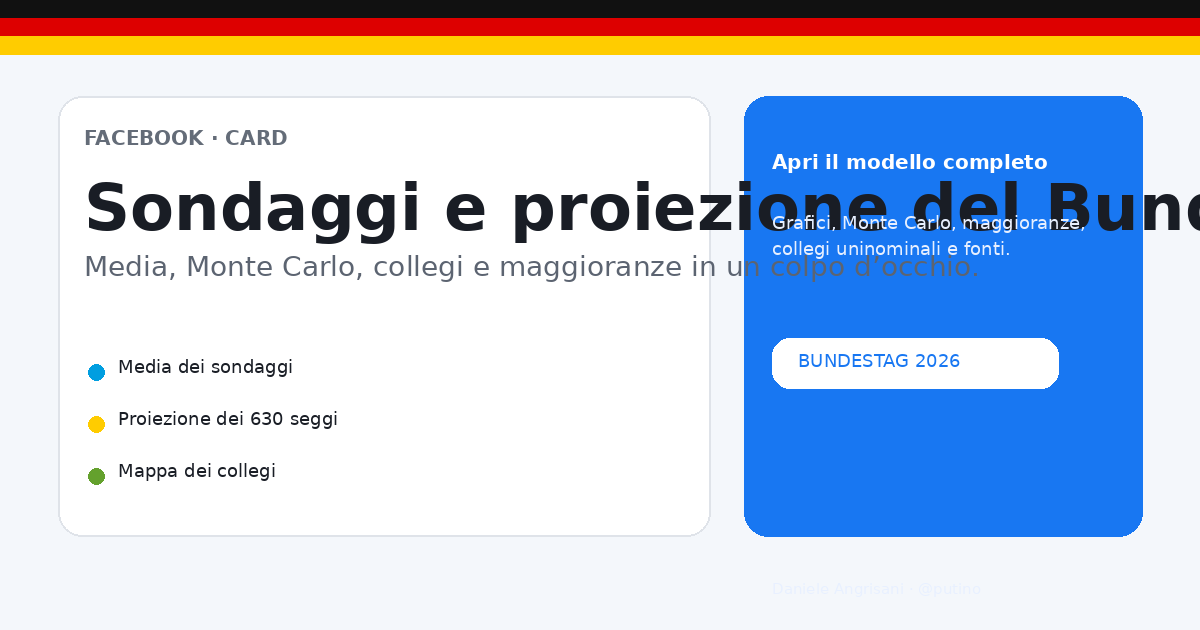
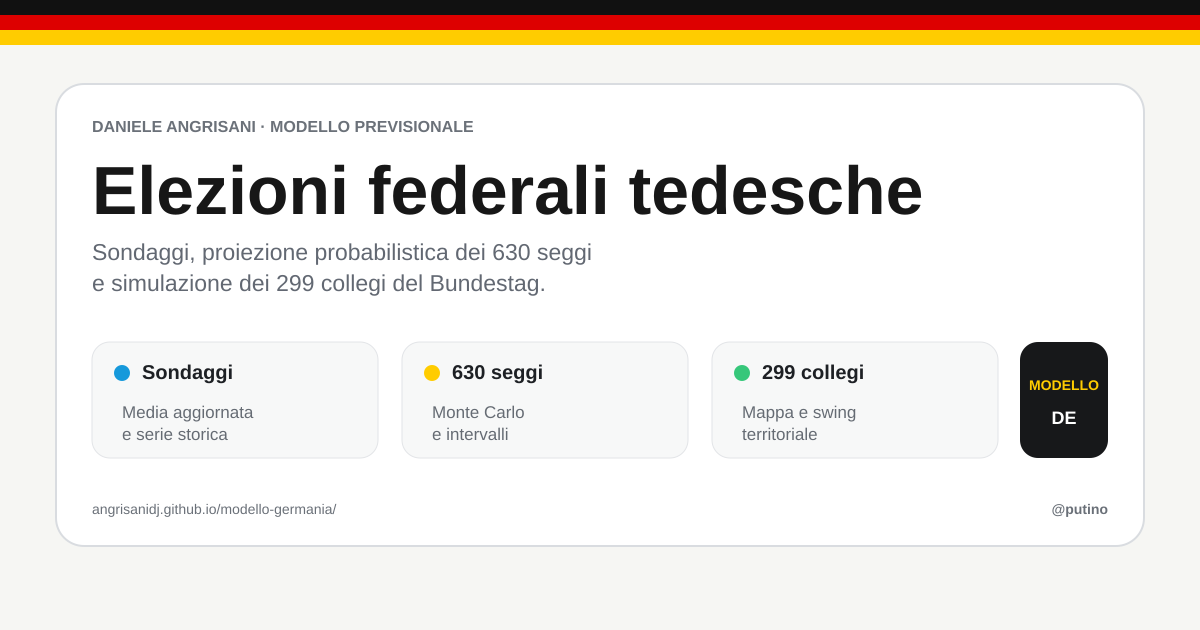
Add files via upload
Bug fix

diff --git a/index.html b/index.html
@@ -9,13 +9,13 @@
 <meta property="og:type" content="website" />
 <meta property="og:title" content="Elezioni federali tedesche — Sondaggi e proiezione del Bundestag" />
 <meta property="og:description" content="Media dei sondaggi, proiezione probabilistica dei seggi, simulazione dei collegi e costruttore di maggioranze." />
-<meta property="og:image" content="preview-bundestag-v21.png" />
+<meta property="og:image" content="preview-bundestag-v21.png?v=20260825d" />
 <meta property="og:image:width" content="1200" />
 <meta property="og:image:height" content="630" />
 <meta name="twitter:card" content="summary_large_image" />
 <meta name="twitter:title" content="Elezioni federali tedesche — Sondaggi e proiezione del Bundestag" />
 <meta name="twitter:description" content="Media dei sondaggi, proiezione probabilistica dei seggi, simulazione dei collegi e costruttore di maggioranze." />
-<meta name="twitter:image" content="preview-bundestag-v21.png" />
+<meta name="twitter:image" content="preview-bundestag-v21.png?v=20260825d" />
 <style>
 :root{
   --de-black:#111111; --de-red:#dd0000; --de-gold:#ffcc00;
@@ -1642,46 +1642,40 @@ function drawPreviewCard(){
   const start30=latest?new Date(latest.date):null; if(start30) start30.setDate(start30.getDate()-29);
   const recent30=latest?state.polls.filter(p=>p.date>=start30&&p.date<=latest.date):[];
   const instituteCount=new Set(recent30.map(p=>p.institute)).size;
-
-  const rr=(x,y,rw,rh,r,fill,stroke=null,lw=1)=>{ctx.beginPath();if(ctx.roundRect)ctx.roundRect(x,y,rw,rh,r);else{ctx.rect(x,y,rw,rh)};if(fill){ctx.fillStyle=fill;ctx.fill()}if(stroke){ctx.strokeStyle=stroke;ctx.lineWidth=lw;ctx.stroke()}};
+  const rr=(x,y,rw,rh,r,fill,stroke=null,lw=1)=>{ctx.beginPath();if(ctx.roundRect)ctx.roundRect(x,y,rw,rh,r);else ctx.rect(x,y,rw,rh);if(fill){ctx.fillStyle=fill;ctx.fill()}if(stroke){ctx.strokeStyle=stroke;ctx.lineWidth=lw;ctx.stroke()}};
   const text=(s,x,y,font,color='#171717',align='left')=>{ctx.font=font;ctx.fillStyle=color;ctx.textAlign=align;ctx.fillText(String(s),x,y)};
-  const wrap=(s,x,y,maxW,lineH,font,color,maxLines=3)=>{ctx.font=font;ctx.fillStyle=color;ctx.textAlign='left';const words=String(s).split(/\s+/);let line='',lines=[];for(const word of words){const test=line?line+' '+word:word;if(ctx.measureText(test).width>maxW&&line){lines.push(line);line=word}else line=test}if(line)lines.push(line);lines=lines.slice(0,maxLines);lines.forEach((ln,i)=>ctx.fillText(ln,x,y+i*lineH));return y+(lines.length-1)*lineH};
+  const wrap=(s,x,y,maxW,lineH,font,color,maxLines=2)=>{ctx.font=font;ctx.fillStyle=color;ctx.textAlign='left';const words=String(s).split(/\s+/);let line='',lines=[];for(const word of words){const t=line?line+' '+word:word;if(ctx.measureText(t).width>maxW&&line){lines.push(line);line=word}else line=t}if(line)lines.push(line);lines.slice(0,maxLines).forEach((ln,i)=>ctx.fillText(ln,x,y+i*lineH));};
 
   ctx.clearRect(0,0,w,h);ctx.fillStyle='#f6f6f3';ctx.fillRect(0,0,w,h);
-  ctx.fillStyle='#111';ctx.fillRect(0,0,w,16);ctx.fillStyle='#dd0000';ctx.fillRect(0,16,w,16);ctx.fillStyle='#ffcc00';ctx.fillRect(0,32,w,16);
+  ctx.fillStyle='#111';ctx.fillRect(0,0,w,14);ctx.fillStyle='#dd0000';ctx.fillRect(0,14,w,14);ctx.fillStyle='#ffcc00';ctx.fillRect(0,28,w,14);
 
-  const leftX=42,leftY=82,leftW=700,leftH=432,rightX=780,rightW=376;
-  rr(leftX,leftY,leftW,leftH,22,'#ffffff','#d9dce0',1.4);
-  text('DANIELE ANGRISANI · MODELLO PREVISIONALE',70,126,'700 18px system-ui, -apple-system, sans-serif','#656a72');
-  text('Elezioni',70,188,'900 58px system-ui, -apple-system, sans-serif');
-  text('federali',70,242,'900 58px system-ui, -apple-system, sans-serif');
-  text('tedesche',70,296,'900 58px system-ui, -apple-system, sans-serif');
-  wrap('Media dei sondaggi, proiezione probabilistica dei seggi, mappa dei collegi uninominali e costruttore di maggioranze.',70,338,620,25,'400 20px system-ui, -apple-system, sans-serif','#60666f',2);
+  const leftX=34,leftY=58,leftW=690,leftH=512,rightX=758,rightW=408;
+  rr(leftX,leftY,leftW,leftH,22,'#fff','#d9dce0',1.4);
+  text('DANIELE ANGRISANI · MODELLO PREVISIONALE',62,100,'700 15px system-ui, -apple-system, sans-serif','#656a72');
+  text('Elezioni',62,160,'900 56px system-ui, -apple-system, sans-serif');
+  text('federali',62,212,'900 56px system-ui, -apple-system, sans-serif');
+  text('tedesche',62,264,'900 56px system-ui, -apple-system, sans-serif');
+  wrap('Media dei sondaggi, proiezione probabilistica dei seggi, mappa dei collegi uninominali e costruttore di maggioranze.',62,304,620,24,'400 18px system-ui, -apple-system, sans-serif','#60666f',2);
 
-  const bars=ranked.slice(0,6), max=Math.max(30,...bars.map(p=>p.val)), barX=160, barW=300, labelX=70, valX=525, y0=398, step=38;
-  bars.forEach((p,i)=>{const y=y0+i*step;text(p.label,labelX,y,'700 16px system-ui, -apple-system, sans-serif','#24272b');rr(barX,y-13,barW,14,7,'#e7eaee');rr(barX,y-13,Math.max(4,barW*(p.val/max)),14,7,p.color);text(pct(p.val),valX,y,'700 16px system-ui, -apple-system, sans-serif','#25282c','right')});
-  const metaLine1=`${recent30.length} rilevazioni · ${instituteCount} istituti`;
-  const metaLine2=latest?`Ultima: ${fmtDate(latest.date)} (${latest.institute}${latest.client?' · '+latest.client:''})`:'';
-  text(metaLine1,70,leftY+leftH-36,'500 13px system-ui, -apple-system, sans-serif','#656a72');
-  if(metaLine2) text(metaLine2,70,leftY+leftH-16,'500 13px system-ui, -apple-system, sans-serif','#656a72');
+  const bars=ranked.slice(0,6),max=Math.max(30,...bars.map(p=>p.val)),labelX=62,barX=150,barW=300,valX=528,y0=370,step=31;
+  bars.forEach((p,i)=>{const y=y0+i*step;text(p.label,labelX,y,'700 15px system-ui, -apple-system, sans-serif','#24272b');rr(barX,y-12,barW,12,6,'#e7eaee');rr(barX,y-12,Math.max(4,barW*(p.val/max)),12,6,p.color);text(pct(p.val),valX,y,'700 15px system-ui, -apple-system, sans-serif','#25282c','right')});
+  ctx.strokeStyle='#eceef1';ctx.lineWidth=1;ctx.beginPath();ctx.moveTo(62,540);ctx.lineTo(666,540);ctx.stroke();
+  text(`${recent30.length} rilevazioni · ${instituteCount} istituti`,62,558,'500 12px system-ui, -apple-system, sans-serif','#656a72');
+  if(latest) text(`Ultima: ${fmtDate(latest.date)} (${latest.institute}${latest.client?' · '+latest.client:''})`,240,558,'500 12px system-ui, -apple-system, sans-serif','#656a72');
 
   rr(rightX,leftY,rightW,150,22,'#191a1c');
-  text('Quadro sintetico',808,126,'800 18px system-ui, -apple-system, sans-serif','#ffcc00');
-  const leaderFont=leader.label.length>9?'900 48px system-ui, -apple-system, sans-serif':'900 66px system-ui, -apple-system, sans-serif';
-  text(leader.label,808,192,leaderFont,'#ffffff');
-  text(`${pct(leader.val)} · primo partito nella media corrente`,808,220,'500 16px system-ui, -apple-system, sans-serif','#d9dde3');
+  text('Quadro sintetico',788,100,'800 18px system-ui, -apple-system, sans-serif','#ffcc00');
+  const leaderFont=leader.label.length>9?'900 46px system-ui, -apple-system, sans-serif':'900 66px system-ui, -apple-system, sans-serif';
+  text(leader.label,788,160,leaderFont,'#fff');
+  text(`${pct(leader.val)} · primo partito nella media corrente`,788,190,'500 14px system-ui, -apple-system, sans-serif','#d9dde3');
 
-  rr(rightX,250,rightW,264,22,'#ffffff','#d9dce0',1.4);
-  text('Modello con Monte Carlo calibrato',808,288,'500 16px system-ui, -apple-system, sans-serif','#656a72');
-  const info=[
-    ['Contenuto','Media, seggi e collegi'],
-    ['Aggiornamento','Automatico + manuale'],
-    ['Metodo','Sainte-Laguë + simulazioni']
-  ];
-  info.forEach((r,i)=>{const yy=330+i*74;ctx.fillStyle='#ffcc00';ctx.beginPath();ctx.arc(810,yy-4,7,0,Math.PI*2);ctx.fill();text(r[0],830,yy,'800 18px system-ui, -apple-system, sans-serif');text(r[1],830,yy+24,'400 15px system-ui, -apple-system, sans-serif','#626872');if(i<2){ctx.strokeStyle='#e5e7ea';ctx.lineWidth=1;ctx.beginPath();ctx.moveTo(808,yy+40);ctx.lineTo(1128,yy+40);ctx.stroke()}});
+  rr(rightX,226,rightW,344,22,'#fff','#d9dce0',1.4);
+  text('Modello con Monte Carlo calibrato',788,262,'500 16px system-ui, -apple-system, sans-serif','#656a72');
+  const info=[['Contenuto','Media, seggi e collegi'],['Aggiornamento','Automatico + manuale'],['Metodo','Sainte-Laguë + simulazioni']];
+  info.forEach((r,i)=>{const yy=310+i*82;ctx.fillStyle='#ffcc00';ctx.beginPath();ctx.arc(792,yy-4,7,0,Math.PI*2);ctx.fill();text(r[0],812,yy,'800 18px system-ui, -apple-system, sans-serif');text(r[1],812,yy+24,'400 15px system-ui, -apple-system, sans-serif','#626872');if(i<2){ctx.strokeStyle='#e5e7ea';ctx.beginPath();ctx.moveTo(788,yy+43);ctx.lineTo(1138,yy+43);ctx.stroke()}});
 
-  text('Fonte: Wahlen in Deutschland',70,546,'400 13px system-ui, -apple-system, sans-serif','#666b73');
-  text('@putino',1130,546,'600 13px system-ui, -apple-system, sans-serif','#666b73','right');
+  text('Fonte: Wahlen in Deutschland',34,612,'400 12px system-ui, -apple-system, sans-serif','#666b73');
+  text('@putino',1160,612,'600 12px system-ui, -apple-system, sans-serif','#666b73','right');
   return canvas;
 }
 function downloadPreviewPng(){ const canvas=drawPreviewCard(); if(!canvas) return; canvas.toBlob(blob=>{ if(!blob) return; const a=document.createElement('a'); a.href=URL.createObjectURL(blob); a.download=snapshotFilename('png'); document.body.appendChild(a); a.click(); setTimeout(()=>{URL.revokeObjectURL(a.href); a.remove()},120); },'image/png'); }
@@ -1724,14 +1718,17 @@ function socialShareTarget(kind){
   return u.href;
 }
 
-function openShare(kind){ const s=pageShareData(), shareUrl=socialShareTarget(kind), u=encodeURIComponent(shareUrl), txt=encodeURIComponent(s.text+' '+shareUrl); let url='';
-  if(kind==='x') url=`https://x.com/intent/post?text=${txt}`;
-  else if(kind==='threads') url=`https://www.threads.net/intent/post?text=${txt}`;
+function openShare(kind){
+  const s=pageShareData(),shareUrl=socialShareTarget(kind),u=encodeURIComponent(shareUrl);
+  const shortText='Elezioni federali tedesche: sondaggi, proiezione dei seggi e collegi.';
+  let url='';
+  if(kind==='x') url=`https://x.com/intent/post?text=${encodeURIComponent(shortText+' '+shareUrl)}`;
+  else if(kind==='threads') url=`https://www.threads.net/intent/post?text=${encodeURIComponent(shortText+' '+shareUrl)}`;
   else if(kind==='facebook') url=`https://www.facebook.com/sharer/sharer.php?u=${u}`;
   else if(kind==='linkedin') url=`https://www.linkedin.com/sharing/share-offsite/?url=${u}`;
-  else if(kind==='telegram') url=`https://t.me/share/url?url=${u}&text=${encodeURIComponent(s.title)}`;
-  else if(kind==='whatsapp') url=`https://api.whatsapp.com/send?text=${txt}`;
-  else if(kind==='copy'){ navigator.clipboard?.writeText(location.href); setStatus('ok','Link copiato negli appunti'); return; }
+  else if(kind==='telegram') url=`https://t.me/share/url?url=${u}`;
+  else if(kind==='whatsapp') url=`https://api.whatsapp.com/send?text=${u}`;
+  else if(kind==='copy'){navigator.clipboard?.writeText(location.href);setStatus('ok','Link copiato negli appunti');return;}
   if(url) window.open(url,'_blank','noopener');
 }
 function aiPrompt(){

diff --git a/share-x.html b/share-x.html
@@ -2,23 +2,23 @@
 <html lang="it"><head>
 <meta charset="utf-8">
 <meta name="viewport" content="width=device-width,initial-scale=1">
-<title>Sondaggi e proiezione del Bundestag</title>
-<meta name="description" content="Card editoriale per X: anteprima della dashboard sulle elezioni tedesche con media dei sondaggi e proiezione del Bundestag.">
+<title>Elezioni federali tedesche</title>
+<meta name="description" content="Sondaggi, proiezione probabilistica dei 630 seggi e mappa dei 299 collegi.">
 <meta property="og:type" content="website">
-<meta property="og:title" content="Sondaggi e proiezione del Bundestag">
-<meta property="og:description" content="Card editoriale per X: anteprima della dashboard sulle elezioni tedesche con media dei sondaggi e proiezione del Bundestag.">
-<meta property="og:image" content="https://angrisanidj.github.io/modello-germania/card_x.png?v=20260825">
+<meta property="og:title" content="Elezioni federali tedesche">
+<meta property="og:description" content="Sondaggi, proiezione probabilistica dei 630 seggi e mappa dei 299 collegi.">
+<meta property="og:image" content="https://angrisanidj.github.io/modello-germania/card_x.png?v=20260825d">
 <meta property="og:image:width" content="1200">
 <meta property="og:image:height" content="630">
-<meta property="og:url" content="https://angrisanidj.github.io/modello-germania/share-x.html?v=20260825">
+<meta property="og:url" content="https://angrisanidj.github.io/modello-germania/share-x.html?v=20260825d">
 <meta property="og:site_name" content="Modello Bundestag">
 <meta name="twitter:card" content="summary_large_image">
-<meta name="twitter:title" content="Sondaggi e proiezione del Bundestag">
-<meta name="twitter:description" content="Card editoriale per X: anteprima della dashboard sulle elezioni tedesche con media dei sondaggi e proiezione del Bundestag.">
-<meta name="twitter:image" content="https://angrisanidj.github.io/modello-germania/card_x.png?v=20260825">
+<meta name="twitter:title" content="Elezioni federali tedesche">
+<meta name="twitter:description" content="Sondaggi, proiezione probabilistica dei 630 seggi e mappa dei 299 collegi.">
+<meta name="twitter:image" content="https://angrisanidj.github.io/modello-germania/card_x.png?v=20260825d">
 <link rel="canonical" href="https://angrisanidj.github.io/modello-germania/">
-<style>body{font-family:system-ui,-apple-system,Segoe UI,Roboto,sans-serif;background:#f7f7f5;color:#1b1d20;margin:0;display:grid;place-items:center;min-height:100vh;padding:24px}.box{max-width:720px;background:#fff;border:1px solid #e4e6e9;border-radius:18px;padding:28px;box-shadow:0 12px 28px rgba(0,0,0,.06)}a{color:#111;font-weight:800}</style>
+<style>body{font-family:system-ui,-apple-system,Segoe UI,Roboto,sans-serif;background:#f7f7f5;color:#1b1d20;margin:0;display:grid;place-items:center;min-height:100vh;padding:24px}.box{max-width:720px;background:#fff;border:1px solid #e4e6e9;border-radius:18px;padding:28px;box-shadow:0 12px 28px rgba(0,0,0,.06)}h1{margin-top:0}a{color:#111;font-weight:800}</style>
 </head><body>
-<div class="box"><h1>Sondaggi e proiezione del Bundestag</h1><p>Card editoriale per X: anteprima della dashboard sulle elezioni tedesche con media dei sondaggi e proiezione del Bundestag.</p><p><a href="./">Apri la dashboard completa →</a></p></div>
+<div class="box"><h1>Elezioni federali tedesche</h1><p>Sondaggi, proiezione probabilistica dei 630 seggi e mappa dei 299 collegi.</p><p><a href="./">Apri il modello completo →</a></p></div>
 <script>setTimeout(function(){ location.replace('./'); },350);</script>
 </body></html>

diff --git a/share-linkedin.html b/share-linkedin.html
@@ -2,23 +2,23 @@
 <html lang="it"><head>
 <meta charset="utf-8">
 <meta name="viewport" content="width=device-width,initial-scale=1">
-<title>Sondaggi e proiezione del Bundestag</title>
-<meta name="description" content="Card editoriale per LinkedIn: dashboard dati sulle elezioni tedesche, con metodo e proiezione dei seggi.">
+<title>Elezioni federali tedesche</title>
+<meta name="description" content="Sondaggi, proiezione probabilistica dei 630 seggi e mappa dei 299 collegi.">
 <meta property="og:type" content="website">
-<meta property="og:title" content="Sondaggi e proiezione del Bundestag">
-<meta property="og:description" content="Card editoriale per LinkedIn: dashboard dati sulle elezioni tedesche, con metodo e proiezione dei seggi.">
-<meta property="og:image" content="https://angrisanidj.github.io/modello-germania/card_linkedin.png?v=20260825">
+<meta property="og:title" content="Elezioni federali tedesche">
+<meta property="og:description" content="Sondaggi, proiezione probabilistica dei 630 seggi e mappa dei 299 collegi.">
+<meta property="og:image" content="https://angrisanidj.github.io/modello-germania/card_linkedin.png?v=20260825d">
 <meta property="og:image:width" content="1200">
 <meta property="og:image:height" content="630">
-<meta property="og:url" content="https://angrisanidj.github.io/modello-germania/share-linkedin.html?v=20260825">
+<meta property="og:url" content="https://angrisanidj.github.io/modello-germania/share-linkedin.html?v=20260825d">
 <meta property="og:site_name" content="Modello Bundestag">
 <meta name="twitter:card" content="summary_large_image">
-<meta name="twitter:title" content="Sondaggi e proiezione del Bundestag">
-<meta name="twitter:description" content="Card editoriale per LinkedIn: dashboard dati sulle elezioni tedesche, con metodo e proiezione dei seggi.">
-<meta name="twitter:image" content="https://angrisanidj.github.io/modello-germania/card_linkedin.png?v=20260825">
+<meta name="twitter:title" content="Elezioni federali tedesche">
+<meta name="twitter:description" content="Sondaggi, proiezione probabilistica dei 630 seggi e mappa dei 299 collegi.">
+<meta name="twitter:image" content="https://angrisanidj.github.io/modello-germania/card_linkedin.png?v=20260825d">
 <link rel="canonical" href="https://angrisanidj.github.io/modello-germania/">
-<style>body{font-family:system-ui,-apple-system,Segoe UI,Roboto,sans-serif;background:#f7f7f5;color:#1b1d20;margin:0;display:grid;place-items:center;min-height:100vh;padding:24px}.box{max-width:720px;background:#fff;border:1px solid #e4e6e9;border-radius:18px;padding:28px;box-shadow:0 12px 28px rgba(0,0,0,.06)}a{color:#111;font-weight:800}</style>
+<style>body{font-family:system-ui,-apple-system,Segoe UI,Roboto,sans-serif;background:#f7f7f5;color:#1b1d20;margin:0;display:grid;place-items:center;min-height:100vh;padding:24px}.box{max-width:720px;background:#fff;border:1px solid #e4e6e9;border-radius:18px;padding:28px;box-shadow:0 12px 28px rgba(0,0,0,.06)}h1{margin-top:0}a{color:#111;font-weight:800}</style>
 </head><body>
-<div class="box"><h1>Sondaggi e proiezione del Bundestag</h1><p>Card editoriale per LinkedIn: dashboard dati sulle elezioni tedesche, con metodo e proiezione dei seggi.</p><p><a href="./">Apri la dashboard completa →</a></p></div>
+<div class="box"><h1>Elezioni federali tedesche</h1><p>Sondaggi, proiezione probabilistica dei 630 seggi e mappa dei 299 collegi.</p><p><a href="./">Apri il modello completo →</a></p></div>
 <script>setTimeout(function(){ location.replace('./'); },350);</script>
 </body></html>

diff --git a/share-threads.html b/share-threads.html
@@ -2,23 +2,23 @@
 <html lang="it"><head>
 <meta charset="utf-8">
 <meta name="viewport" content="width=device-width,initial-scale=1">
-<title>Sondaggi e proiezione del Bundestag</title>
-<meta name="description" content="Card editoriale per Threads: dashboard sulle elezioni federali tedesche con dati, modello e collegi.">
+<title>Elezioni federali tedesche</title>
+<meta name="description" content="Sondaggi, proiezione probabilistica dei 630 seggi e mappa dei 299 collegi.">
 <meta property="og:type" content="website">
-<meta property="og:title" content="Sondaggi e proiezione del Bundestag">
-<meta property="og:description" content="Card editoriale per Threads: dashboard sulle elezioni federali tedesche con dati, modello e collegi.">
-<meta property="og:image" content="https://angrisanidj.github.io/modello-germania/card_threads.png?v=20260825">
+<meta property="og:title" content="Elezioni federali tedesche">
+<meta property="og:description" content="Sondaggi, proiezione probabilistica dei 630 seggi e mappa dei 299 collegi.">
+<meta property="og:image" content="https://angrisanidj.github.io/modello-germania/card_threads.png?v=20260825d">
 <meta property="og:image:width" content="1200">
 <meta property="og:image:height" content="630">
-<meta property="og:url" content="https://angrisanidj.github.io/modello-germania/share-threads.html?v=20260825">
+<meta property="og:url" content="https://angrisanidj.github.io/modello-germania/share-threads.html?v=20260825d">
 <meta property="og:site_name" content="Modello Bundestag">
 <meta name="twitter:card" content="summary_large_image">
-<meta name="twitter:title" content="Sondaggi e proiezione del Bundestag">
-<meta name="twitter:description" content="Card editoriale per Threads: dashboard sulle elezioni federali tedesche con dati, modello e collegi.">
-<meta name="twitter:image" content="https://angrisanidj.github.io/modello-germania/card_threads.png?v=20260825">
+<meta name="twitter:title" content="Elezioni federali tedesche">
+<meta name="twitter:description" content="Sondaggi, proiezione probabilistica dei 630 seggi e mappa dei 299 collegi.">
+<meta name="twitter:image" content="https://angrisanidj.github.io/modello-germania/card_threads.png?v=20260825d">
 <link rel="canonical" href="https://angrisanidj.github.io/modello-germania/">
-<style>body{font-family:system-ui,-apple-system,Segoe UI,Roboto,sans-serif;background:#f7f7f5;color:#1b1d20;margin:0;display:grid;place-items:center;min-height:100vh;padding:24px}.box{max-width:720px;background:#fff;border:1px solid #e4e6e9;border-radius:18px;padding:28px;box-shadow:0 12px 28px rgba(0,0,0,.06)}a{color:#111;font-weight:800}</style>
+<style>body{font-family:system-ui,-apple-system,Segoe UI,Roboto,sans-serif;background:#f7f7f5;color:#1b1d20;margin:0;display:grid;place-items:center;min-height:100vh;padding:24px}.box{max-width:720px;background:#fff;border:1px solid #e4e6e9;border-radius:18px;padding:28px;box-shadow:0 12px 28px rgba(0,0,0,.06)}h1{margin-top:0}a{color:#111;font-weight:800}</style>
 </head><body>
-<div class="box"><h1>Sondaggi e proiezione del Bundestag</h1><p>Card editoriale per Threads: dashboard sulle elezioni federali tedesche con dati, modello e collegi.</p><p><a href="./">Apri la dashboard completa →</a></p></div>
+<div class="box"><h1>Elezioni federali tedesche</h1><p>Sondaggi, proiezione probabilistica dei 630 seggi e mappa dei 299 collegi.</p><p><a href="./">Apri il modello completo →</a></p></div>
 <script>setTimeout(function(){ location.replace('./'); },350);</script>
 </body></html>

diff --git a/share-whatsapp.html b/share-whatsapp.html
@@ -2,23 +2,23 @@
 <html lang="it"><head>
 <meta charset="utf-8">
 <meta name="viewport" content="width=device-width,initial-scale=1">
-<title>Sondaggi e proiezione del Bundestag</title>
-<meta name="description" content="Card editoriale per WhatsApp: anteprima grafica del modello con link alla dashboard completa.">
+<title>Elezioni federali tedesche</title>
+<meta name="description" content="Sondaggi, proiezione probabilistica dei 630 seggi e mappa dei 299 collegi.">
 <meta property="og:type" content="website">
-<meta property="og:title" content="Sondaggi e proiezione del Bundestag">
-<meta property="og:description" content="Card editoriale per WhatsApp: anteprima grafica del modello con link alla dashboard completa.">
-<meta property="og:image" content="https://angrisanidj.github.io/modello-germania/card_whatsapp.png?v=20260825">
+<meta property="og:title" content="Elezioni federali tedesche">
+<meta property="og:description" content="Sondaggi, proiezione probabilistica dei 630 seggi e mappa dei 299 collegi.">
+<meta property="og:image" content="https://angrisanidj.github.io/modello-germania/card_whatsapp.png?v=20260825d">
 <meta property="og:image:width" content="1200">
 <meta property="og:image:height" content="630">
-<meta property="og:url" content="https://angrisanidj.github.io/modello-germania/share-whatsapp.html?v=20260825">
+<meta property="og:url" content="https://angrisanidj.github.io/modello-germania/share-whatsapp.html?v=20260825d">
 <meta property="og:site_name" content="Modello Bundestag">
 <meta name="twitter:card" content="summary_large_image">
-<meta name="twitter:title" content="Sondaggi e proiezione del Bundestag">
-<meta name="twitter:description" content="Card editoriale per WhatsApp: anteprima grafica del modello con link alla dashboard completa.">
-<meta name="twitter:image" content="https://angrisanidj.github.io/modello-germania/card_whatsapp.png?v=20260825">
+<meta name="twitter:title" content="Elezioni federali tedesche">
+<meta name="twitter:description" content="Sondaggi, proiezione probabilistica dei 630 seggi e mappa dei 299 collegi.">
+<meta name="twitter:image" content="https://angrisanidj.github.io/modello-germania/card_whatsapp.png?v=20260825d">
 <link rel="canonical" href="https://angrisanidj.github.io/modello-germania/">
-<style>body{font-family:system-ui,-apple-system,Segoe UI,Roboto,sans-serif;background:#f7f7f5;color:#1b1d20;margin:0;display:grid;place-items:center;min-height:100vh;padding:24px}.box{max-width:720px;background:#fff;border:1px solid #e4e6e9;border-radius:18px;padding:28px;box-shadow:0 12px 28px rgba(0,0,0,.06)}a{color:#111;font-weight:800}</style>
+<style>body{font-family:system-ui,-apple-system,Segoe UI,Roboto,sans-serif;background:#f7f7f5;color:#1b1d20;margin:0;display:grid;place-items:center;min-height:100vh;padding:24px}.box{max-width:720px;background:#fff;border:1px solid #e4e6e9;border-radius:18px;padding:28px;box-shadow:0 12px 28px rgba(0,0,0,.06)}h1{margin-top:0}a{color:#111;font-weight:800}</style>
 </head><body>
-<div class="box"><h1>Sondaggi e proiezione del Bundestag</h1><p>Card editoriale per WhatsApp: anteprima grafica del modello con link alla dashboard completa.</p><p><a href="./">Apri la dashboard completa →</a></p></div>
+<div class="box"><h1>Elezioni federali tedesche</h1><p>Sondaggi, proiezione probabilistica dei 630 seggi e mappa dei 299 collegi.</p><p><a href="./">Apri il modello completo →</a></p></div>
 <script>setTimeout(function(){ location.replace('./'); },350);</script>
 </body></html>

diff --git a/share-telegram.html b/share-telegram.html
@@ -2,23 +2,23 @@
 <html lang="it"><head>
 <meta charset="utf-8">
 <meta name="viewport" content="width=device-width,initial-scale=1">
-<title>Sondaggi e proiezione del Bundestag</title>
-<meta name="description" content="Card editoriale per Telegram: sintesi grafica del modello sulle elezioni tedesche.">
+<title>Elezioni federali tedesche</title>
+<meta name="description" content="Sondaggi, proiezione probabilistica dei 630 seggi e mappa dei 299 collegi.">
 <meta property="og:type" content="website">
-<meta property="og:title" content="Sondaggi e proiezione del Bundestag">
-<meta property="og:description" content="Card editoriale per Telegram: sintesi grafica del modello sulle elezioni tedesche.">
-<meta property="og:image" content="https://angrisanidj.github.io/modello-germania/card_telegram.png?v=20260825">
+<meta property="og:title" content="Elezioni federali tedesche">
+<meta property="og:description" content="Sondaggi, proiezione probabilistica dei 630 seggi e mappa dei 299 collegi.">
+<meta property="og:image" content="https://angrisanidj.github.io/modello-germania/card_telegram.png?v=20260825d">
 <meta property="og:image:width" content="1200">
 <meta property="og:image:height" content="630">
-<meta property="og:url" content="https://angrisanidj.github.io/modello-germania/share-telegram.html?v=20260825">
+<meta property="og:url" content="https://angrisanidj.github.io/modello-germania/share-telegram.html?v=20260825d">
 <meta property="og:site_name" content="Modello Bundestag">
 <meta name="twitter:card" content="summary_large_image">
-<meta name="twitter:title" content="Sondaggi e proiezione del Bundestag">
-<meta name="twitter:description" content="Card editoriale per Telegram: sintesi grafica del modello sulle elezioni tedesche.">
-<meta name="twitter:image" content="https://angrisanidj.github.io/modello-germania/card_telegram.png?v=20260825">
+<meta name="twitter:title" content="Elezioni federali tedesche">
+<meta name="twitter:description" content="Sondaggi, proiezione probabilistica dei 630 seggi e mappa dei 299 collegi.">
+<meta name="twitter:image" content="https://angrisanidj.github.io/modello-germania/card_telegram.png?v=20260825d">
 <link rel="canonical" href="https://angrisanidj.github.io/modello-germania/">
-<style>body{font-family:system-ui,-apple-system,Segoe UI,Roboto,sans-serif;background:#f7f7f5;color:#1b1d20;margin:0;display:grid;place-items:center;min-height:100vh;padding:24px}.box{max-width:720px;background:#fff;border:1px solid #e4e6e9;border-radius:18px;padding:28px;box-shadow:0 12px 28px rgba(0,0,0,.06)}a{color:#111;font-weight:800}</style>
+<style>body{font-family:system-ui,-apple-system,Segoe UI,Roboto,sans-serif;background:#f7f7f5;color:#1b1d20;margin:0;display:grid;place-items:center;min-height:100vh;padding:24px}.box{max-width:720px;background:#fff;border:1px solid #e4e6e9;border-radius:18px;padding:28px;box-shadow:0 12px 28px rgba(0,0,0,.06)}h1{margin-top:0}a{color:#111;font-weight:800}</style>
 </head><body>
-<div class="box"><h1>Sondaggi e proiezione del Bundestag</h1><p>Card editoriale per Telegram: sintesi grafica del modello sulle elezioni tedesche.</p><p><a href="./">Apri la dashboard completa →</a></p></div>
+<div class="box"><h1>Elezioni federali tedesche</h1><p>Sondaggi, proiezione probabilistica dei 630 seggi e mappa dei 299 collegi.</p><p><a href="./">Apri il modello completo →</a></p></div>
 <script>setTimeout(function(){ location.replace('./'); },350);</script>
 </body></html>

diff --git a/share-facebook.html b/share-facebook.html
@@ -2,23 +2,23 @@
 <html lang="it"><head>
 <meta charset="utf-8">
 <meta name="viewport" content="width=device-width,initial-scale=1">
-<title>Sondaggi e proiezione del Bundestag</title>
-<meta name="description" content="Card editoriale per Facebook: sondaggi, Monte Carlo e costruttore di maggioranze.">
+<title>Elezioni federali tedesche</title>
+<meta name="description" content="Sondaggi, proiezione probabilistica dei 630 seggi e mappa dei 299 collegi.">
 <meta property="og:type" content="website">
-<meta property="og:title" content="Sondaggi e proiezione del Bundestag">
-<meta property="og:description" content="Card editoriale per Facebook: sondaggi, Monte Carlo e costruttore di maggioranze.">
-<meta property="og:image" content="https://angrisanidj.github.io/modello-germania/card_facebook.png?v=20260825">
+<meta property="og:title" content="Elezioni federali tedesche">
+<meta property="og:description" content="Sondaggi, proiezione probabilistica dei 630 seggi e mappa dei 299 collegi.">
+<meta property="og:image" content="https://angrisanidj.github.io/modello-germania/card_facebook.png?v=20260825d">
 <meta property="og:image:width" content="1200">
 <meta property="og:image:height" content="630">
-<meta property="og:url" content="https://angrisanidj.github.io/modello-germania/share-facebook.html?v=20260825">
+<meta property="og:url" content="https://angrisanidj.github.io/modello-germania/share-facebook.html?v=20260825d">
 <meta property="og:site_name" content="Modello Bundestag">
 <meta name="twitter:card" content="summary_large_image">
-<meta name="twitter:title" content="Sondaggi e proiezione del Bundestag">
-<meta name="twitter:description" content="Card editoriale per Facebook: sondaggi, Monte Carlo e costruttore di maggioranze.">
-<meta name="twitter:image" content="https://angrisanidj.github.io/modello-germania/card_facebook.png?v=20260825">
+<meta name="twitter:title" content="Elezioni federali tedesche">
+<meta name="twitter:description" content="Sondaggi, proiezione probabilistica dei 630 seggi e mappa dei 299 collegi.">
+<meta name="twitter:image" content="https://angrisanidj.github.io/modello-germania/card_facebook.png?v=20260825d">
 <link rel="canonical" href="https://angrisanidj.github.io/modello-germania/">
-<style>body{font-family:system-ui,-apple-system,Segoe UI,Roboto,sans-serif;background:#f7f7f5;color:#1b1d20;margin:0;display:grid;place-items:center;min-height:100vh;padding:24px}.box{max-width:720px;background:#fff;border:1px solid #e4e6e9;border-radius:18px;padding:28px;box-shadow:0 12px 28px rgba(0,0,0,.06)}a{color:#111;font-weight:800}</style>
+<style>body{font-family:system-ui,-apple-system,Segoe UI,Roboto,sans-serif;background:#f7f7f5;color:#1b1d20;margin:0;display:grid;place-items:center;min-height:100vh;padding:24px}.box{max-width:720px;background:#fff;border:1px solid #e4e6e9;border-radius:18px;padding:28px;box-shadow:0 12px 28px rgba(0,0,0,.06)}h1{margin-top:0}a{color:#111;font-weight:800}</style>
 </head><body>
-<div class="box"><h1>Sondaggi e proiezione del Bundestag</h1><p>Card editoriale per Facebook: sondaggi, Monte Carlo e costruttore di maggioranze.</p><p><a href="./">Apri la dashboard completa →</a></p></div>
+<div class="box"><h1>Elezioni federali tedesche</h1><p>Sondaggi, proiezione probabilistica dei 630 seggi e mappa dei 299 collegi.</p><p><a href="./">Apri il modello completo →</a></p></div>
 <script>setTimeout(function(){ location.replace('./'); },350);</script>
 </body></html>
